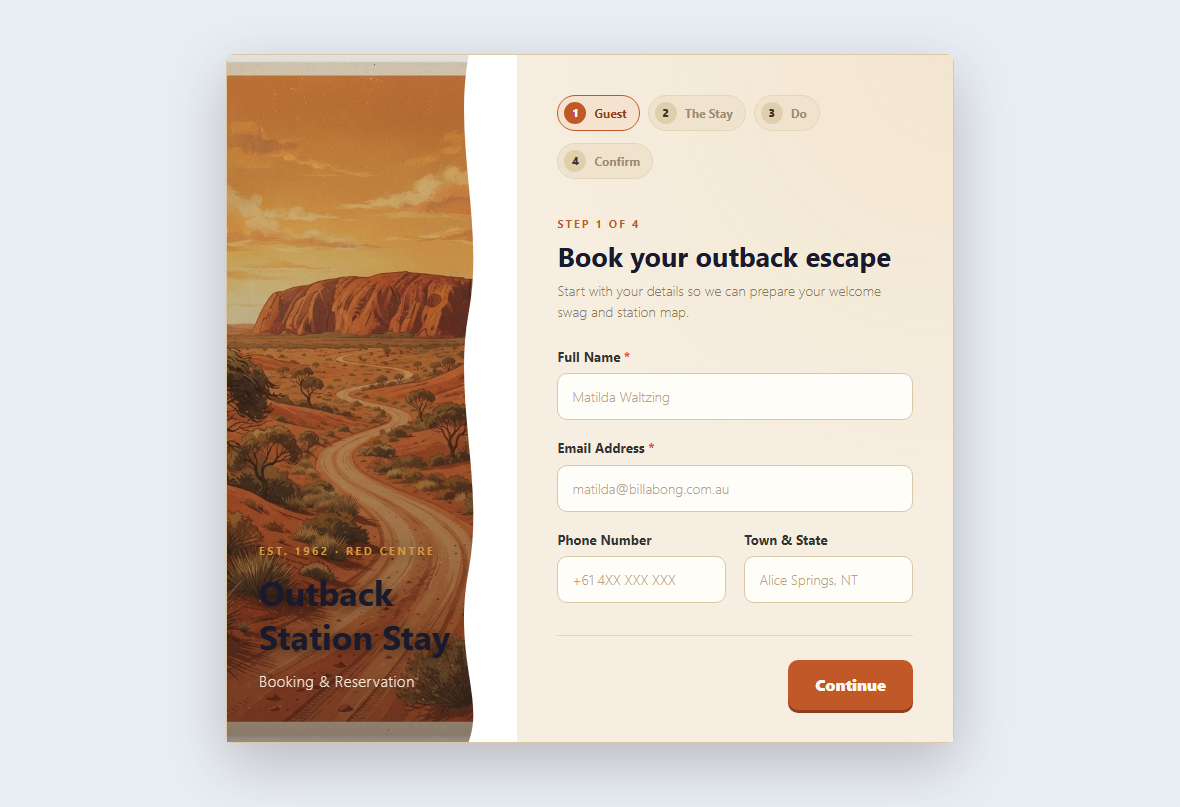
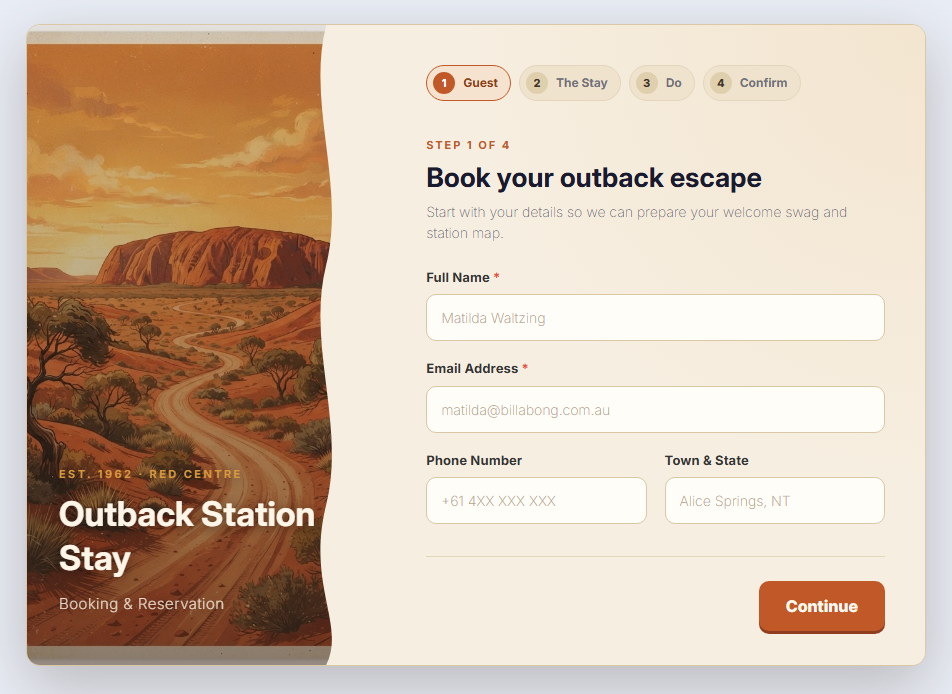
docs(dnn): fix landing screenshots, call out the free online gallery, re-record cascade
- Outback screenshot re-taken from the live DNN page: the old capture had a white
  band where the wavy photo mask should show the parchment body.
- Dropped the contact-map screenshot — the map does not read at the site's page width.
- Landing page now states plainly that a purchased module can download dozens more
  premium designs from the online gallery for free, with a shot of that gallery.
- Cascade animation re-recorded with Americas → Canada instead of Vietnam.

diff --git a/index.md b/index.md
@@ -18,7 +18,20 @@ hero panels, cards and styled inputs included.
 
 ![EuroYouth mobility application on DNN](images/dnn-gallery-youth.png)
 
-![Contact form with map on DNN](images/dnn-gallery-contact-map.png)
+## Dozens more designs — free from the online gallery
+
+Buying the module includes the **online template gallery**: a hosted repository of premium,
+ready-to-use designs you can download **at no extra cost, as often as you like**. New designs are
+added there over time, so the catalog keeps growing after your purchase.
+
+In the builder, choose **New Form → Template Gallery → Online gallery**, preview a design, and one
+click installs it into your portal (the design's artwork comes with it). Everything is downloaded
+and verified server-side by your own DNN install.
+
+![The online template gallery inside the builder: dozens of premium designs available to install](images/dnn-online-gallery.png)
+
+> The online gallery is a licensed feature: trial installs may browse and preview the whole catalog,
+> and a purchased module installs from it without limits.
 
 ## More gallery templates
 

diff --git a/articles/dnn-database-connections.md b/articles/dnn-database-connections.md
@@ -59,7 +59,7 @@ a mistyped query cannot drag a million rows into a public form.
 ![A purchase-request form on DNN: choosing Region → Country reloads the Store and Vendor dropdowns from the CustomerErp database](../images/dnn-erp-cascade.gif)
 
 The chain re-filters as you go: pick *Europe → Germany* and only the two German stores and vendors
-remain; switch to *Asia-Pacific → Vietnam* and the same fields reload from the ERP.
+remain; switch to *Americas → Canada* and the same fields reload from the ERP.
 
 ![The finished purchase request with Store and Vendor narrowed to the chosen country](../images/dnn-erp-cascade-result.png)
 
